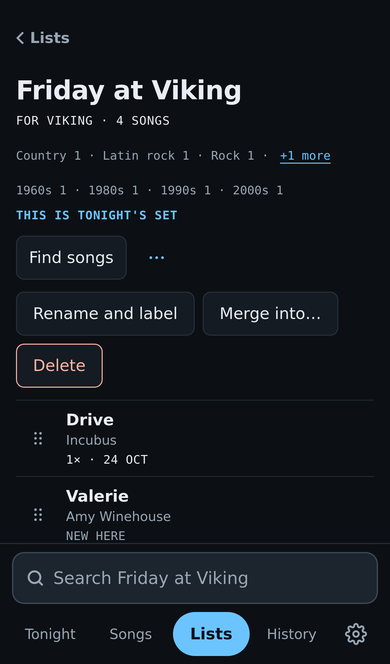
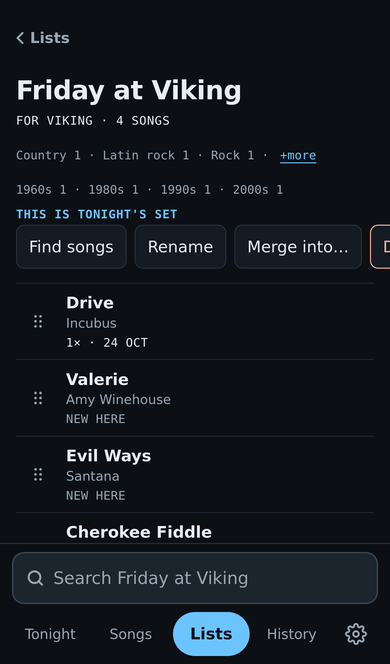
The last “…” in the app is gone: a list’s screen puts Find songs, Rename, Merge into… and Delete on one row that scrolls sideways on a phone, the cut-off button at the edge being the hint, and the merge note sits under it (R14, R59). Rename and label is now Rename; the form still holds both. The tes

diff --git a/help/index.html b/help/index.html
@@ -102,7 +102,7 @@
   <p>The first song of tonight's set sits in the Up next card, with its key if you set one, the artist, and how often you sang it here.</p>
   <ul>
     <li><strong>KJ</strong> shows the song full screen to hand across: the title and artist as large as fit, and the key as a big number with its meaning in words, such as “−2, two semitones down”. Turn the phone sideways and only the title, artist and key show. Done, or the back gesture, returns.</li>
-    <li><strong>Sang it</strong> logs the sing at this venue with today's date, takes the song off the set and shows the next song full screen for the KJ, all in one tap, so you keep your place in the rotation. The top of that screen says what was logged, with Undo. After the last song, Tonight says that was the last one.</li>
+    <li><strong>Sang it</strong> logs the performance at this venue with today's date, takes the song off the set and shows the next song full screen for the KJ, all in one tap, so you keep your place in the rotation. The top of that screen says what was logged, with Undo. After the last song, Tonight says that was the last one.</li>
   </ul>
   <figure>
     <img src="img/kj.png" width="390" height="664" loading="lazy" alt="The KJ screen after Sang it: a note that Brown Eyed Girl was logged at Viking, with Undo, then Up next for the KJ: Drive by Incubus in very large type, key −1, one semitone down, and Done.">
@@ -110,7 +110,7 @@
   </figure>
 
   <h3>What you sang tonight</h3>
-  <p>Once you've sung, the Sung strip under the header lists today's songs here. Undo last deletes the last sing and puts the song back at the top of the set. Tap the strip to see every sing at this venue, by date, newest first, with Undo beside today's.</p>
+  <p>Once you've sung, the Sung strip under the header lists today's songs here. Undo last deletes the last performance and puts the song back at the top of the set. Tap the strip to see every performance at this venue, by date, newest first, with Undo beside today's.</p>
 
   <h3>After that</h3>
   <p>The rest of the set follows, numbered 02, 03 and on.</p>
@@ -203,14 +203,14 @@
 
   <h3>A list's screen</h3>
   <figure>
-    <img src="img/list.png" width="390" height="664" loading="lazy" alt="The screen for the list Friday at Viking: Lists at the top, the label For Viking and 4 songs, a genre line ending in +1 more, a decade line, This is tonight's set, Find songs, and the … menu open with Rename and label, Merge into… and Delete, then the songs with their handles.">
-    <figcaption>A list, with its … menu open</figcaption>
+    <img src="img/list.png" width="390" height="664" loading="lazy" alt="The screen for the list Friday at Viking: Lists at the top, the label For Viking and 4 songs, a genre line ending in +more, a decade line, This is tonight's set, a row with Find songs, Rename, Merge into… and Delete, then the songs with their handles.">
+    <figcaption>A list's screen</figcaption>
   </figure>
   <p>Tap a card to open the list. At the top are ‹ Lists and, unless it already is, <strong>Make this tonight's set</strong>, which makes it tonight's set at the venue chosen on Tonight.</p>
   <p>Under the name come the label and song count, then the mix: a line of genres and a line of decades, showing the biggest groups. Each line is a single line that cuts off when there is more; <strong>+more</strong> at its end opens the full counts in place (every genre, most first, and every decade, oldest first); <strong>fewer</strong> folds them away. A line then says how many of its songs are in tonight's set, or This is tonight's set.</p>
   <ul>
     <li><strong>Find songs</strong> opens Songs with this list as the one + adds to, without making it tonight's set. You can build next week's list while you wait to sing.</li>
-    <li><strong>…</strong> beside it holds <strong>Rename and label</strong> (the name and the venue label), <strong>Merge into…</strong> and <strong>Delete</strong>. Merge into… moves every song the other list doesn't have to its end and leaves this list empty; it asks first, with the counts. Delete asks first; your songs stay in your library.</li>
+    <li><strong>Rename</strong> (the name and the venue label), <strong>Merge into…</strong> and <strong>Delete</strong> sit on the same row; on a phone, swipe the row left to reach the ones past the edge. Merge into… moves every song the other list doesn't have to its end and leaves this list empty; it asks first, with the counts. Delete asks first; your songs stay in your library.</li>
   </ul>
   <p>Each song shows its artist and, on a list for a venue, how often and when you sang it there (or New here). + puts it on tonight's set, and ✓ means it's there (except on tonight's set itself). Tap a song for its page, whose Back returns to the list. Swipe a song left for Remove, which takes it off this list without asking.</p>
   <p>Drag the handle at the left to reorder. Held near the top or bottom edge of the screen, a drag scrolls the list, so a long move is one drag. The field at the bottom finds songs in the list; the handles hide while it does.</p>
@@ -227,17 +227,17 @@
 <section id="history" aria-labelledby="history-head">
   <h2 id="history-head">History</h2>
   <figure>
-    <img src="img/history.png" width="390" height="664" loading="lazy" alt="The History screen: Log a sing and Venues at the top, chips for The Crown, Viking (chosen) and All venues, By song chosen, and Brown Eyed Girl opened to its two performances, each with Delete.">
+    <img src="img/history.png" width="390" height="664" loading="lazy" alt="The History screen: Log a performance and Venues at the top, chips for The Crown, Viking (chosen) and All venues, By song chosen, and Brown Eyed Girl opened to its two performances, each with Delete.">
     <figcaption>History at one venue, by song</figcaption>
   </figure>
   <p>History shows what you sang. The chips at the top choose a venue, starting at Tonight's, or All venues.</p>
   <ul>
     <li><strong>By song</strong> lists each song with how many times and when you last sang it, such as “2× · 16 Nov”, most recent first. Tap a song to see each sing.</li>
     <li><strong>By night</strong> lists the same performance by date, newest first.</li>
-    <li>Every sing has <strong>Delete</strong>, which asks first: use it to undo a mis-tap from an earlier night.</li>
+    <li>Every performance has <strong>Delete</strong>, which asks first: use it to undo a mis-tap from an earlier night.</li>
     <li>The field at the bottom searches the history by title or artist.</li>
   </ul>
-  <p><strong>Log a sing</strong> records a sing you forgot, or one from another night: choose the venue, type to find the song, and set the date, which starts at today.</p>
+  <p><strong>Log a sing</strong> records a performance you forgot, or one from another night: choose the venue, type to find the song, and set the date, which starts at today.</p>
   <p><strong>Venues</strong> adds, renames and deletes venues (Tonight's Manage venues… opens the same list). A venue you've sung at can't be deleted. Lists labeled for a deleted venue become Any venue.</p>
 </section>
 
@@ -270,13 +270,13 @@
   <ul>
     <li><span class="columns">Title</span> and <span class="columns">Artist</span> are needed.</li>
     <li><span class="columns">Genre</span>, <span class="columns">Year</span>, <span class="columns">Key</span> and <span class="columns">Tags</span> are read if present; separate tags with ; or ,.</li>
-    <li><span class="columns">Venue</span> logs a sing at that venue for each row, adding the venue if it's new. <span class="columns">Date</span> dates it (2024-05-01, 2024-05, 2024 or 5/1/2024); a blank date means the day of the import.</li>
+    <li><span class="columns">Venue</span> logs a performance at that venue for each row, adding the venue if it's new. <span class="columns">Date</span> dates it (2024-05-01, 2024-05, 2024 or 5/1/2024); a blank date means the day of the import.</li>
   </ul>
   <p>Other columns are ignored. Songs you already have, and rows without a title or artist, are skipped, and the result says how many.</p>
   <p><strong>Download songs as CSV</strong> saves every song with its title, artist, genre, year, key, tags, status, rating and notes, for a spreadsheet. It imports back without duplicates, though status, rating and notes are not read back in. Venues, performances and lists are only in the backup.</p>
 
   <h3 id="backup">Backup</h3>
-  <p>A backup is one file holding your songs, venues, sing history and lists. It is the only copy of your data that isn't on the phone, so save one after a night out.</p>
+  <p>A backup is one file holding your songs, venues, performance history and lists. It is the only copy of your data that isn't on the phone, so save one after a night out.</p>
   <ul>
     <li><strong>Share backup</strong> (on a phone) opens the share sheet: choose Save to Files, AirDrop or Mail. It counts as a backup only once the share goes through. On an iPhone this is the reliable way: Download backup from the Home Screen app may do nothing.</li>
     <li><strong>Download backup</strong> saves the file to your downloads, on a computer or wherever sharing isn't offered.</li>

diff --git a/js/views/setlists.js b/js/views/setlists.js
@@ -385,7 +385,7 @@ async function renderSetlist(id, message = '', focusId = null) {
   // ---- Rename and label (R14, R56): a form under the actions, made when opened ----
 
   const renameButton = el('button', {
-    class: 'btn', type: 'button', text: 'Rename and label', 'aria-expanded': 'false', onclick: () => showEditForm(!editSlot.firstChild),
+    class: 'btn', type: 'button', text: 'Rename', 'aria-expanded': 'false', onclick: () => showEditForm(!editSlot.firstChild),
   });
   const editSlot = el('div', { class: 'edit-slot' });
   let renaming = false;
@@ -912,20 +912,11 @@ async function renderSetlist(id, message = '', focusId = null) {
     await save();
   }
 
-  // Rename and label, Merge into… and Delete are occasional, so they wait
-  // behind a "…" beside Find songs; choosing one closes the menu.
-  const moreMenu = el('div', { class: 'list-more-menu', role: 'group', 'aria-label': 'List actions', hidden: '' },
-    renameButton, mergeButton, deleteButton);
-  const moreButton = el('button', {
-    class: 'btn icon-btn list-more', type: 'button', 'aria-label': 'List actions', 'aria-expanded': 'false',
-    onclick: () => showMore(moreMenu.hidden),
-  }, icon(ICONS.more, { width: 3.2 }));
-  function showMore(open) {
-    moreMenu.hidden = !open;
-    moreButton.setAttribute('aria-expanded', String(open));
-    moreButton.classList.toggle('on', open);
-  }
-  moreMenu.addEventListener('click', (e) => { if (e.target.closest('button')) showMore(false); });
+  // Find songs, Rename, Merge into… and Delete on one line that scrolls
+  // sideways when the screen is too narrow for all four (the "…" menu that
+  // held the last three went on 2026-11-16: it was the last one in the app).
+  const actions = el('div', { class: 'setlist-actions', role: 'group', 'aria-label': 'List actions' },
+    findButton, renameButton, mergeButton, deleteButton);
 
   const root = el('div', { class: 'stack setlists-view' },
     // The top line: back at the left, "Make this tonight's set" at the right.
@@ -945,8 +936,8 @@ async function renderSetlist(id, message = '', focusId = null) {
       genreMix.line,
       decadeMix.line,
       inSetLine),
-    el('div', { class: 'setlist-actions' }, findButton, moreButton, mergeNote),
-    moreMenu,
+    actions,
+    mergeNote,
     editSlot,
     mergeForm,
     status,

diff --git a/css/app.css b/css/app.css
@@ -1307,18 +1307,29 @@ body[data-screen="kj"] main { padding: 0; max-width: none; }
 
 /* ---- Setlist labels, Find songs and merge (R56, R57, R59) ---- */
 
-/* Under the label line: Find songs and Merge into…, with why merging is off. */
-.setlist-actions { display: flex; flex-wrap: wrap; align-items: center; gap: 8px; }
+/* Under the label line: Find songs, Rename, Merge into… and Delete on one
+   line. On a phone the last of them sit past the edge and a swipe left
+   brings them in; the scrollbar is hidden, the cut-off button is the hint. */
+.setlist-actions {
+  display: flex;
+  flex-wrap: nowrap;
+  align-items: center;
+  gap: 8px;
+  margin: 0 -16px; /* the row runs to the screen's edges, so a button is seen to be cut off */
+  padding: 2px 16px; /* room for the focus ring */
+  overflow-x: auto;
+  overscroll-behavior-x: contain;
+  -webkit-overflow-scrolling: touch;
+  scrollbar-width: none;
+}
+.setlist-actions::-webkit-scrollbar { display: none; }
+.setlist-actions > .btn { flex: none; white-space: nowrap; }
 /* The list screen's top line: back at the left, Make this tonight's set at the right. */
 .list-topbar { display: flex; align-items: center; justify-content: space-between; gap: 8px; }
 .list-topbar .make-tonight { margin: 0; }
-/* Rename and label, Merge into… and Delete, behind the "…" beside Find songs. */
-.list-more { width: var(--tap); height: var(--tap); padding: 0; }
-.list-more.on { border-color: var(--accent); color: var(--accent); }
-.list-more-menu { display: flex; flex-wrap: wrap; gap: 8px; }
-.list-more-menu[hidden] { display: none; }
-.setlist-actions .merge-note { flex-basis: 100%; margin: 0; font-size: 0.875rem; }
-.setlist-actions .merge-note:empty { display: none; }
+/* Why merging is off, under the row. */
+.merge-note { margin: 0; font-size: 0.875rem; }
+.merge-note:empty { display: none; }
 .merge-form .hint { margin: 0; font-size: 0.875rem; }
 .merge-field > label + select { margin-top: 4px; }
 .setlist-empty > p { margin: 0 0 8px; }

diff --git a/tests/e2e/helpers-lists.js b/tests/e2e/helpers-lists.js
@@ -50,12 +50,11 @@ export async function deleteOpenList(page, name) {
   await page.getByRole('button', { name: `Delete ${name}`, exact: true }).click();
 }
 
-// Opens the "…" beside Find songs on the open list, which holds Rename and
-// label, Merge into… and Delete, unless it is open already.
+// Since 2026-11-16 the open list's actions (Find songs, Rename, Merge into…,
+// Delete) are one row that scrolls sideways, with no menu to open; this
+// waits for the row, and Playwright scrolls a button into view to tap it.
 export async function openListMenu(page) {
-  const more = page.getByRole('button', { name: 'List actions', exact: true });
-  if ((await more.getAttribute('aria-expanded')) !== 'true') await more.click();
-  await expect(more).toHaveAttribute('aria-expanded', 'true');
+  await expect(page.getByRole('group', { name: 'List actions', exact: true })).toBeVisible();
 }
 
 // ---------- History ----------

diff --git a/tests/e2e/helpers-setlists.js b/tests/e2e/helpers-setlists.js
@@ -35,11 +35,11 @@ export async function createSetlist(page, name, venue = 'Any venue') {
   await expect(setlistRow(page, name.trim())).toBeVisible();
 }
 
-// Opens the list (unless it is open) and its "Rename and label" form, and returns the form.
+// Opens the list (unless it is open) and its Rename form, and returns the form.
 export async function editSetlist(page, name) {
   if (!(await page.getByRole('heading', { level: 2, name, exact: true }).isVisible())) await openSetlist(page, name);
   await openListMenu(page);
-  await page.getByRole('button', { name: 'Rename and label', exact: true }).click();
+  await page.getByRole('button', { name: 'Rename', exact: true }).click();
   const form = page.getByRole('form', { name: `Edit ${name}`, exact: true });
   await expect(form).toBeVisible();
   return form;

diff --git a/tests/e2e/ux.spec.js b/tests/e2e/ux.spec.js
@@ -146,9 +146,7 @@ test.describe('UX', () => {
     await expectTapTargets(page, 'Lists, new list');
     await openSetlist(page, 'Friday');
     await expectTapTargets(page, 'A list');
-    await openListMenu(page);
-    await expectTapTargets(page, 'A list, its menu open');
-    await page.getByRole('button', { name: 'Rename and label', exact: true }).click();
+    await page.getByRole('button', { name: 'Rename', exact: true }).click();
     await openSongMenu(page, 'Valerie');
     await expectTapTargets(page, 'A list, renaming, with a song\'s actions');
 

diff --git a/tools/screenshots.js b/tools/screenshots.js
@@ -188,7 +188,6 @@ const SCREENS = [
   ['setlist', async (page) => {
     await page.getByRole('button', { name: /^Friday at Viking/ }).click();
     await page.getByRole('button', { name: 'Back to Lists' }).waitFor();
-    await page.getByRole('button', { name: 'List actions' }).click(); // Rename and label, Merge into…, Delete
   }],
   ['settings', async (page) => {
     await tab(page, 'Settings');

diff --git a/sw.js b/sw.js
@@ -4,7 +4,7 @@
 // add every new app file to APP_SHELL. Otherwise installed copies keep serving
 // the old files, or fail offline when a module is missing from the cache.
 
-const CACHE_VERSION = 'v53';
+const CACHE_VERSION = 'v54';
 const CACHE_NAME = `mic-jaunt-${CACHE_VERSION}`;
 
 // Paths are relative so the app also works from a sub-folder (e.g. GitHub Pages).

diff --git a/docs/REQUIREMENTS.md b/docs/REQUIREMENTS.md
@@ -64,13 +64,13 @@ Finding the next song to sing and working a list through the night; adding songs
 
 | ID | Requirement | Priority | Status | Notes |
 |---|---|---|---|---|
-| R14 | Create, rename and delete setlists; each is labelled for a venue or for any venue, and the label can be changed | Must | Done | The Lists scope: each list shows its label, song count, a genre and a decade line, and how many of its songs are in tonight's set (or "Tonight's set"). "New list" at the top opens the form for the name and the label ("For venue (optional)"); Rename and label and Delete wait behind the "…" on the list's own screen (R59). The dock's field filters the lists by name. Names unique ignoring case; delete confirms with the song count. e2e: "R14: creates, renames and deletes a setlist", "R14: keeps the setlist when the delete confirmation is dismissed", "R14: lists setlists by name and refuses empty and duplicate names", "R14: the Setlists tab returns to the setlist list" |
+| R14 | Create, rename and delete setlists; each is labelled for a venue or for any venue, and the label can be changed | Must | Done | The Lists scope: each list shows its label, song count, a genre and a decade line, and how many of its songs are in tonight's set (or "Tonight's set"). "New list" at the top opens the form for the name and the label ("For venue (optional)"); Rename (the name and the label) and Delete sit on the list's own screen, on one row with Find songs and Merge into… that scrolls sideways on a phone (R59). The dock's field filters the lists by name. Names unique ignoring case; delete confirms with the song count. e2e: "R14: creates, renames and deletes a setlist", "R14: keeps the setlist when the delete confirmation is dismissed", "R14: lists setlists by name and refuses empty and duplicate names", "R14: the Setlists tab returns to the setlist list" |
 | R15 | Add songs to a setlist and remove them; a song can be in several setlists | Must | Done | Adding happens in the Songs scope or Tonight's field (R48, R57). On a list's screen each song has + / ✓ for tonight's set at the venue chosen on Tonight ("✓ = in tonight's set"; not on the list that is tonight's set), so songs drop from any list into tonight. Remove waits behind a swipe left on the song, as on Tonight (the "…" went on 2026-11-15), reaches by keyboard, and needs no confirmation. A list that is not tonight's set has "Make this tonight's set" (R75). The dock's field filters the list's songs. A song deleted from the library drops out of every list. e2e: "R15: adds and removes songs, and a song can be in two setlists", "R15: a song is added to tonight's set from another list with +", "R15: a list's songs swipe open for Remove, one at a time, and the keyboard reaches it", "R15: skips songs that no longer exist and finds songs in a large library" |
 | R16 | Reorder a setlist by dragging; a long move drags to the screen's edge, which scrolls | Should | Done | A drag handle on each song, at the far left; held within about 60 px of the screen's top or bottom, a drag scrolls the screen that way, faster nearer the edge and only the way the row has moved, until that end of the list sits clear of the edge zone, since an iPhone finger cannot reach under the status bar (the Up and Down buttons went on 2026-11-15); arrow keys on the handle for keyboards. Pointer events, works with touch. No handle while the field filters the songs. e2e: "R16: the arrow keys on a song's handle move it, and the order survives a reload", "R16: drags a song to a new position", "R16: a song dragged to the bottom edge scrolls the list, so a long move needs no buttons", "R16: a song dragged to the top edge reaches first place even when the finger cannot touch the very top" |
 | R43 | Flag songs in a setlist that I have already sung at its label venue, with the date | Must | Done | Each song on a list labelled for a venue shows its sings there the way Tonight does ("2× · 17 Oct" or "New here"); an any-venue list shows none. On Tonight each song in the set shows its sings at the venue picked there. e2e: "R43: flags songs already sung at the setlist's venue with the last date", "R43: a general setlist shows no sung flags" |
 | R44 | See a setlist's mix: how many songs per genre and per decade, with the full counts a tap away | Should | Done | A genre line and a decade line on each list and at the top of its screen: the biggest groups (three genres, four decades), then "+N more". On the list's screen each line is one line, the counts cut off with an ellipsis and "+more" at its end (a text link with a 44 px target, named "+N more genres" for screen readers; "+7 more" wrapped onto a line of its own until 2026-11-16), which unfolds every genre, most first, and every decade, oldest first, in place, wrapping as needed, and folds them back on a second tap ("fewer"); "No genre" and "No year" last. One mix: the Mix card under the songs went on 2026-11-15. e2e: "R44: shows the mix by genre and decade and updates when a song is removed" |
 | R45 | Suggest N songs for a setlist that I have not sung at its venue, in the list's own mix or spread across genres and decades, as a preview to trim before adding, with Undo | Could | Done | On the list's screen, under the songs: How many (1 to 50, default 10) and a switch, "Match this list" (chosen while the list has songs) or "Mix it up" (the only way for an empty list, when the switch hides). Never-sung, non-Retired songs not in the list; for an any-venue list, a sing anywhere counts. Match shares the picks among the list's genres in proportion to its songs, and within a genre among its decades the same way; a genre with none left passes its share to the others, rounding gives the odd picks to the largest shares, a genre's own decades running dry are made up from its other decades, and it never goes outside the list's genres (fewer songs come back, and the note says so). Mix it up is round-robin across genres then decades. Random within. Suggest songs shows "Suggested · N" under the card, each song with its genre and year and × to drop it; Cancel drops the lot, Add these puts the rest on the end, and "Added N songs. Undo" stays until the list changes some other way. e2e: "R45: suggests never-sung songs spread across genres and decades", "R45: says so when fewer songs are left than asked for", "R45: Match this list suggests songs in the list's own mix, the preview can drop one, and Undo takes them out again" |
-| R59 | Merge a setlist into another: every song not already there goes to the end of the other, and the source is left empty | Must | Done | "Merge into…" on the list's screen, behind the "…" beside Find songs with Rename and label and Delete (since 2026-11-15; "Make this tonight's set" sits on the top line with Back). Confirms with the counts, including how many are already there; off, with a note, while the list is empty or there is no other list. The target's screen takes the source's place in the history, so back from a song opened on it returns to it (fixed 2026-11-15). e2e: "R59: merging moves every song not already there to the end of the other list and empties the source" |
+| R59 | Merge a setlist into another: every song not already there goes to the end of the other, and the source is left empty | Must | Done | "Merge into…" on the list's screen, on one row with Find songs, Rename and Delete that scrolls sideways on a phone, the cut-off button being the hint (the "…" that held the last three from 2026-11-15 went on 2026-11-16, the last one in the app; "Make this tonight's set" sits on the top line with Back). Confirms with the counts, including how many are already there; off, with a note, while the list is empty or there is no other list. The target's screen takes the source's place in the history, so back from a song opened on it returns to it (fixed 2026-11-15). e2e: "R59: merging moves every song not already there to the end of the other list and empties the source" |
 | R60 | The Setlists tab holds its place: coming back within five minutes reopens the setlist I was on; later it starts at the list | Must | Done | The Lists scope. Leaving a list through "‹ Lists", or deleting it, means the scope starts at the lists next time. e2e: "R60: coming back to the Setlists tab within minutes reopens the setlist; later it starts at the list" |
 
 ## Venues and the sing log
@@ -148,6 +148,7 @@ KaraFun publishes its whole catalog (about 100,000 songs) as a free CSV: `Id;Tit
 | R16 | Up and Down under a list song's "…" gave way to edge scrolling while dragging; the "…" gave way to a swipe for Remove (R15) | 2026-11-15 |
 | R44 | The Mix card under a list's songs gave way to the header's genre and decade lines, whose "+N more" unfolds in place | 2026-11-15 |
 | R45 | Suggest songs stopped adding at once: it shows a preview to trim, Add these adds with Undo, and "Match this list" became the default for a list with songs | 2026-11-15 |
+| R14 | The "…" beside Find songs on a list's screen gave way to one row that scrolls sideways: Find songs, Rename, Merge into…, Delete | 2026-11-16 |
 
 ## Out of scope
 

diff --git a/README.md b/README.md
@@ -86,7 +86,7 @@ The guards check that the pieces are present and agree with each other. They can
 - Library: add (the Add a song sheet at the end of Songs, or straight from a search that matched nothing), open, edit every field (notes, genre, year, key, tags, status, rating), delete with confirmation (R1, R10, R2, R3, R36, R4–R7); title, artist, year and genre suggestions from MusicBrainz while typing, matching word prefixes, with an off switch in Settings (R35, R63); a new song's status starts as "Not set" (R64); a warning when the song is already there (R9)
 - Filters: never sung here / not since a date, tag, status, rating, genre, decade and In KaraFun; sort by title, artist, rating, last sung, date added, genre or decade (R37, R41, R11, R42, R12, R68). Fast with 1,000 songs (R34); each song has a video search link (R38)
 - KaraFun catalog in Songs: once a catalog is loaded, a "My songs | KaraFun" switch searches it by genre, decade, duet, explicit and language, and each row adds the song to my songs or straight into the set with + (R67); songs KaraFun has carry a KaraFun mark (R68)
-- **Lists**, for building and tidying lists: each list shows its label ("For The Crown" or "Any venue"; any list can be opened at any venue, R56), its song count, a genre line and a decade line, and how many of its songs are in tonight's set; "New list" at the top, and the dock's field filters them. A list opens on top with **Make this tonight's set** unless it is (R75), its genre and decade lines (whose "+N more" unfolds the full counts in place), + / ✓ on each song for tonight's set ("✓ = in tonight's set"), each song's sings at the list's venue as Tonight shows them, a drag handle (held at the screen's edge, a drag scrolls it for long moves), a swipe left for Remove and a tap on the song for its page; its actions are "Find songs" (the Songs scope with + to add to this list, without making it tonight's set, R57), "Rename and label", "Merge into…" (onto the end of another, R59) and Delete, with "Suggest songs" under the songs (never-sung songs in the list's own mix or across every genre, shown first as a preview to trim, then added with Undo) (R14, R15, R43, R16, R44, R45, R70)
+- **Lists**, for building and tidying lists: each list shows its label ("For The Crown" or "Any venue"; any list can be opened at any venue, R56), its song count, a genre line and a decade line, and how many of its songs are in tonight's set; "New list" at the top, and the dock's field filters them. A list opens on top with **Make this tonight's set** unless it is (R75), its genre and decade lines (one line each, whose "+more" unfolds the full counts in place), + / ✓ on each song for tonight's set ("✓ = in tonight's set"), each song's sings at the list's venue as Tonight shows them, a drag handle (held at the screen's edge, a drag scrolls it for long moves), a swipe left for Remove and a tap on the song for its page; its actions are one row that scrolls sideways on a phone: "Find songs" (the Songs scope with + to add to this list, without making it tonight's set, R57), "Rename" (the name and the label), "Merge into…" (onto the end of another, R59) and Delete, with "Suggest songs" under the songs (never-sung songs in the list's own mix or across every genre, shown first as a preview to trim, then added with Undo) (R14, R15, R43, R16, R44, R45, R70)
 - No title bar: the selected scope in the dock is an accent pill, and content starts at the top edge (R58). Lists reopens the list you were on if you come back within five minutes (R60)
 - Settings: CSV import of songs and, via a venue column, sings; CSV export; JSON backup by download or, on a phone, the share sheet; "Check a backup file"; restore (R22, R46, R23, R20, R62, R21). The KaraFun catalog: load KaraFun's CSV, see when and how many, replace or remove it; loading marks which of your songs KaraFun has (R66, R68). In Safari on an iPhone a banner explains that data does not follow the app to the Home Screen, and a fresh install offers to restore (R65)
 - Print-friendly song list, setlist and venue history from the browser's print menu (R24); new-version banner with Reload (R30); iPhone icon and status-bar tags (R29); a reminder when the last backup is over 30 days old (R25)

diff --git a/docs/DESIGN-B.md b/docs/DESIGN-B.md
@@ -60,7 +60,7 @@ Back · KJ. Title and artist in the KJ-sized header; key with a stepper (R6); st
 ## Lists
 
 - The lists: name, label ("For The Crown" / "Any venue"), song count, a genre line and a decade line (R44 in miniature), and "N of M in tonight's set" or "This is tonight's set". **New list** at the top (name and label, R14, R56). The field filters the lists.
-- A list's songs: Back, header with the label and mix lines and, unless it is tonight's set, **Make this tonight's set** (R75); a one-line legend "✓ = in tonight's set", rows with `+` / `✓` for tonight's set (the owner's case: open "Crowd pleasers", drop two songs into tonight), "here" stats (R43), the drag handle at the far left (R16: held at the screen's top or bottom edge, a drag scrolls it, so long moves need no buttons), and a swipe left for **Remove**, as on Tonight; a tap on a song opens its page (R70), and the mix lines' "+N more" unfolds the full counts in place (R44). Actions on the list screen: Rename and label, Find songs (R57: Songs scope with this list as the working list, R75; it does not become tonight's set), Suggest songs (R45: a preview to trim, then Add these, with Undo), Merge into… (R59), Delete. The list reopens for five minutes when coming back to the scope (R60).
+- A list's songs: Back, header with the label and mix lines and, unless it is tonight's set, **Make this tonight's set** (R75); a one-line legend "✓ = in tonight's set", rows with `+` / `✓` for tonight's set (the owner's case: open "Crowd pleasers", drop two songs into tonight), "here" stats (R43), the drag handle at the far left (R16: held at the screen's top or bottom edge, a drag scrolls it, so long moves need no buttons), and a swipe left for **Remove**, as on Tonight; a tap on a song opens its page (R70), and the mix lines, one line each until their "+more" unfolds the full counts in place (R44). Actions on the list screen, one row that scrolls sideways on a phone: Find songs (R57: Songs scope with this list as the working list, R75; it does not become tonight's set), Rename (the name and the label), Merge into… (R59), Delete; Suggest songs under the songs (R45: a preview to trim, then Add these, with Undo). The list reopens for five minutes when coming back to the scope (R60).
 
 ## History
 
